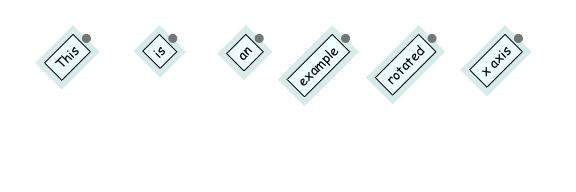
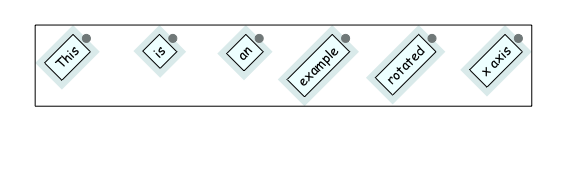
tweaks

Changed region(s): [[0.0312, 0.125, 0.9375, 0.5625]]

diff --git a/README.md b/README.md
@@ -6,9 +6,9 @@
 Improved text rendering support for grid graphics in R, written by Claus
 O. Wilke
 
-This is an experiment. Most features are broken. The API is not stable.
-Please do not use this in any context where you need your code to work.
-No user support will be provided.
+This is an experiment. The API is not stable. Please do not use this in
+any context where you need your code to work. No user support will be
+provided.
 
 ## Installation
 
@@ -35,10 +35,10 @@ label_data <- tibble(
   label = c("Descenders: pgqjy", "This is a label\nwith two lines", "Hello!"),
   x = unit(c(.3, .8, .5), "npc"),
   y = unit(c(.9, .5, .3), "npc"),
-  box_hjust = 0,
-  box_vjust = 0.5,
-  hjust = 1,
-  vjust = 1,
+  hjust = 0,
+  vjust = 0.5,
+  hjust_int = 1, # internal hjust, vjust, defines how text label
+  vjust_int = 1, # is positioned inside the box
   angle = c(0, 45, -45),
   color = "blue",
   fill = "azure1",
@@ -56,25 +56,26 @@ grid.draw(g)
 ![](man/figures/README-unnamed-chunk-3-1.png)<!-- -->
 
 Also, the boxes enclosing the labels can be all made the same size by
-setting `align_frames = TRUE`. This may be useful when using this grob
-to provide labels for an x or y axis:
+setting `align_frame_widths` and/or `align_frame_heights` to `TRUE`.
+This may be useful when using this grob to provide labels for an x or y
+axis:
 
 ``` r
 label_data <- tibble(
   label = c("This", "is", "an", "example", "rotated", "x axis"),
   x = unit(.15*1:6, "npc"),
   y = unit(0.8, "npc"),
-  box_hjust = 1,
-  box_vjust = 0.5,
-  hjust = 0.5,
-  vjust = 1,
+  hjust = 1,
+  vjust = 0.5,
+  hjust_int = 0.5,
+  vjust_int = 1,
   angle = 45,
   fontsize = 10, fontfamily = "Comic Sans MS",
   padding = list(mar(5, 5, 3, 5)),
   margin = list(mar(5, 5, 5, 5))
 )
 grid.newpage()
-g <- labels_grob(label_data, align_frames = TRUE, debug = TRUE)
+g <- labels_grob(label_data, align_frame_widths = TRUE, debug = TRUE)
 grid.draw(g)
 ```
 
